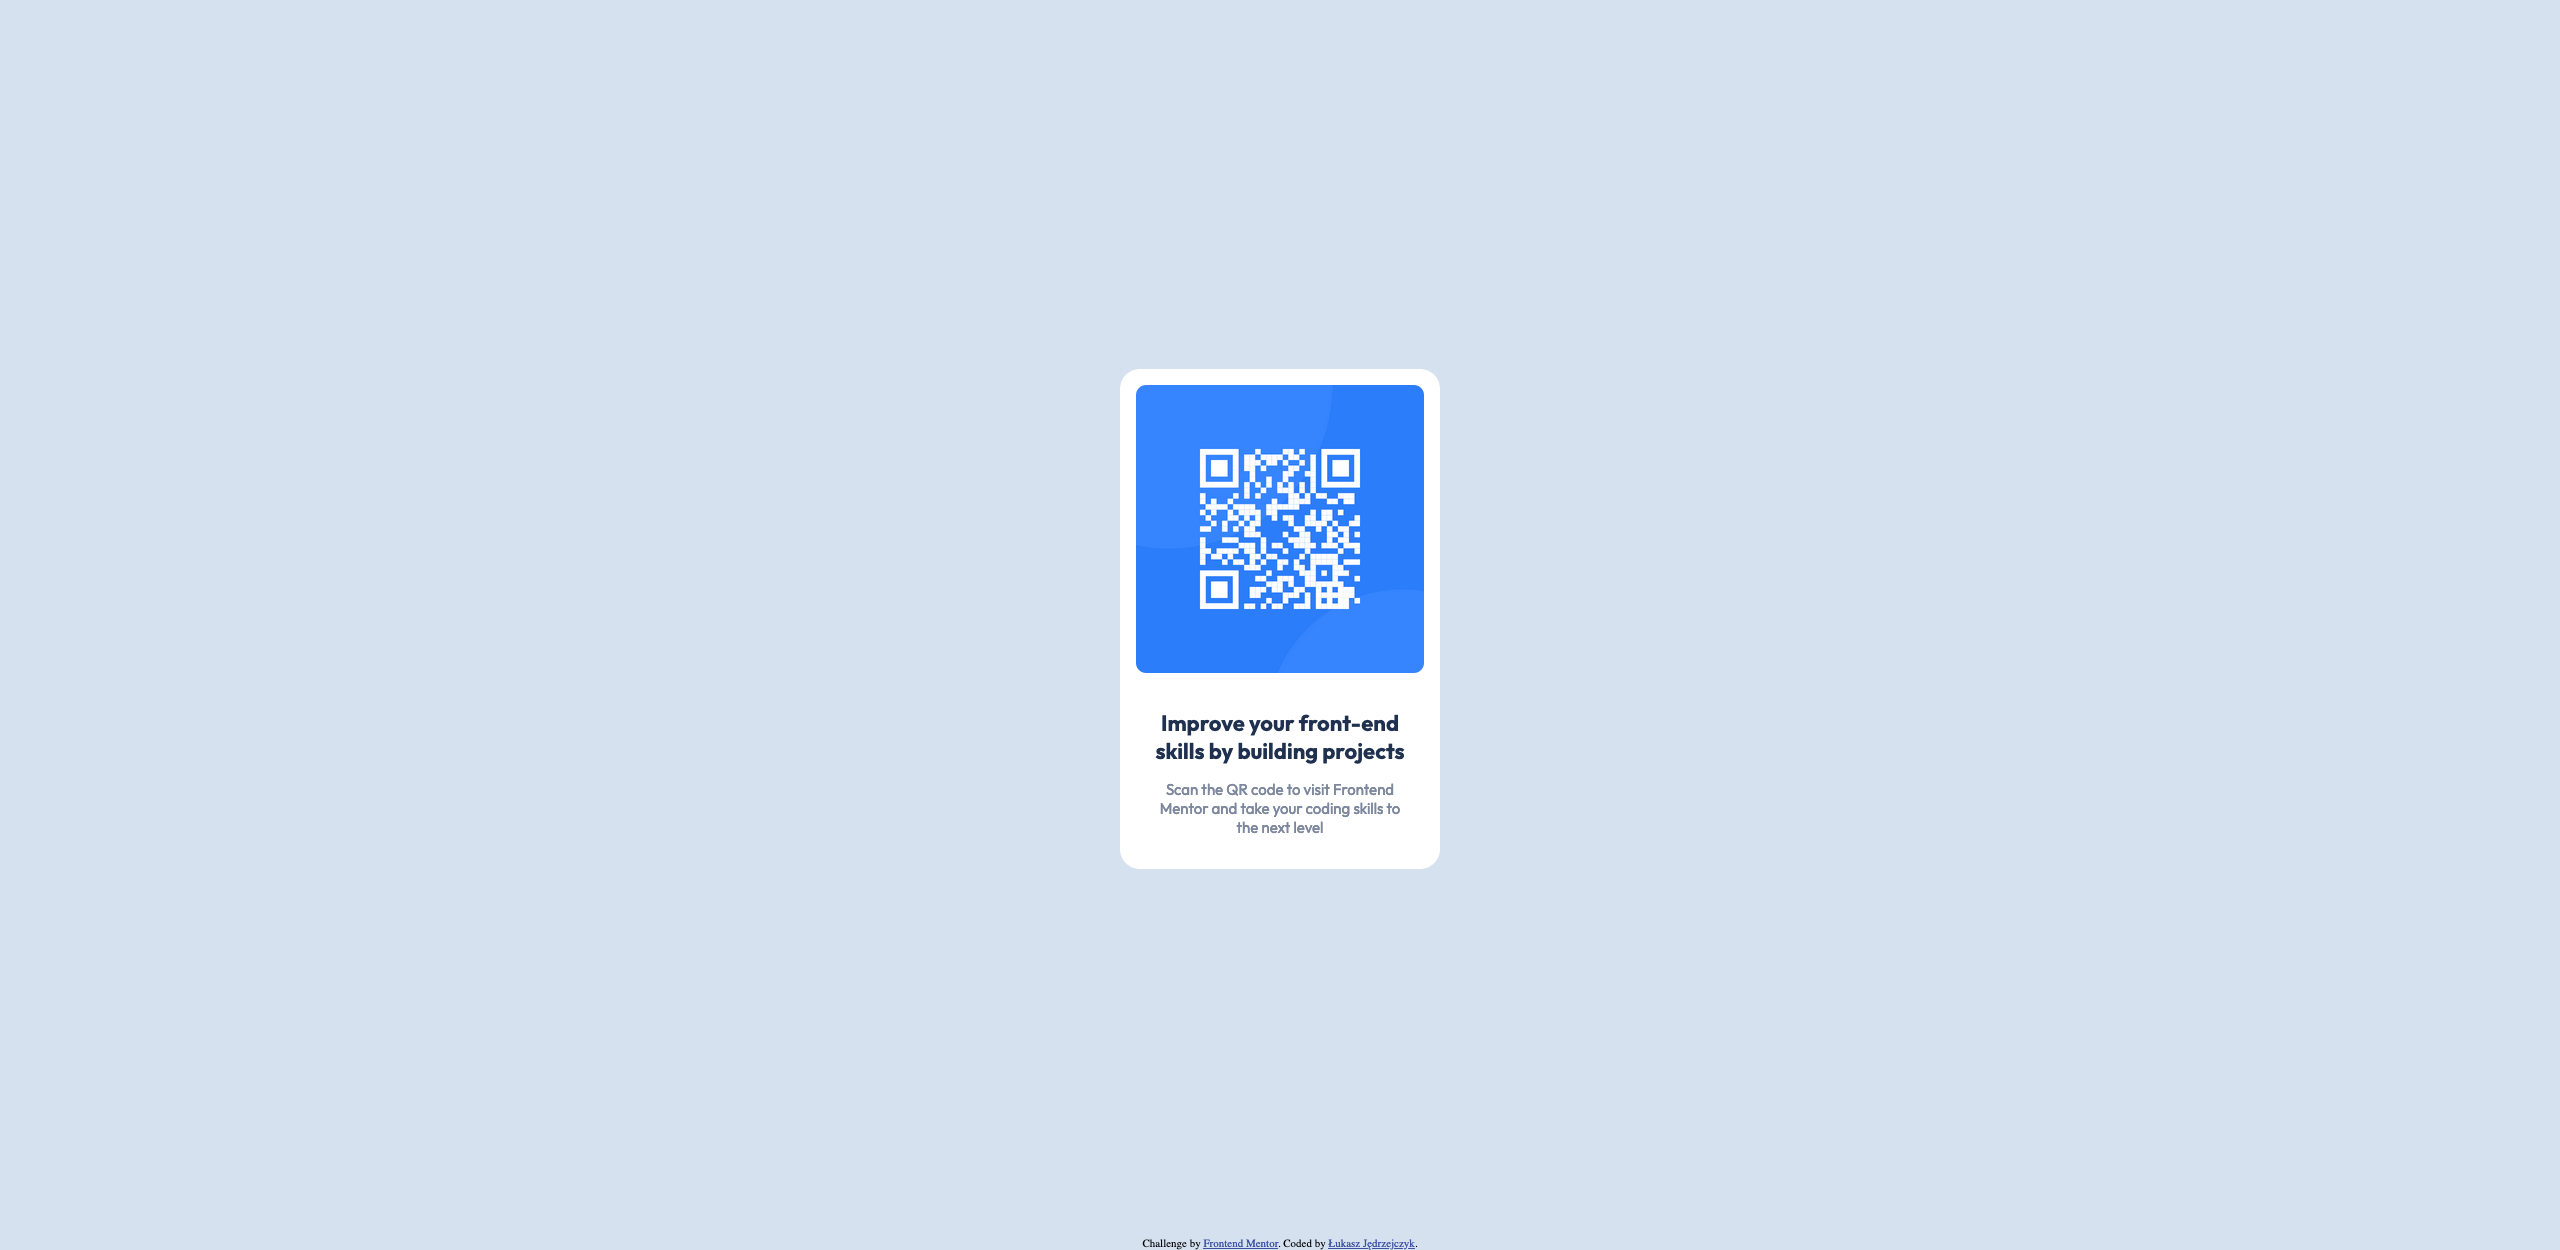
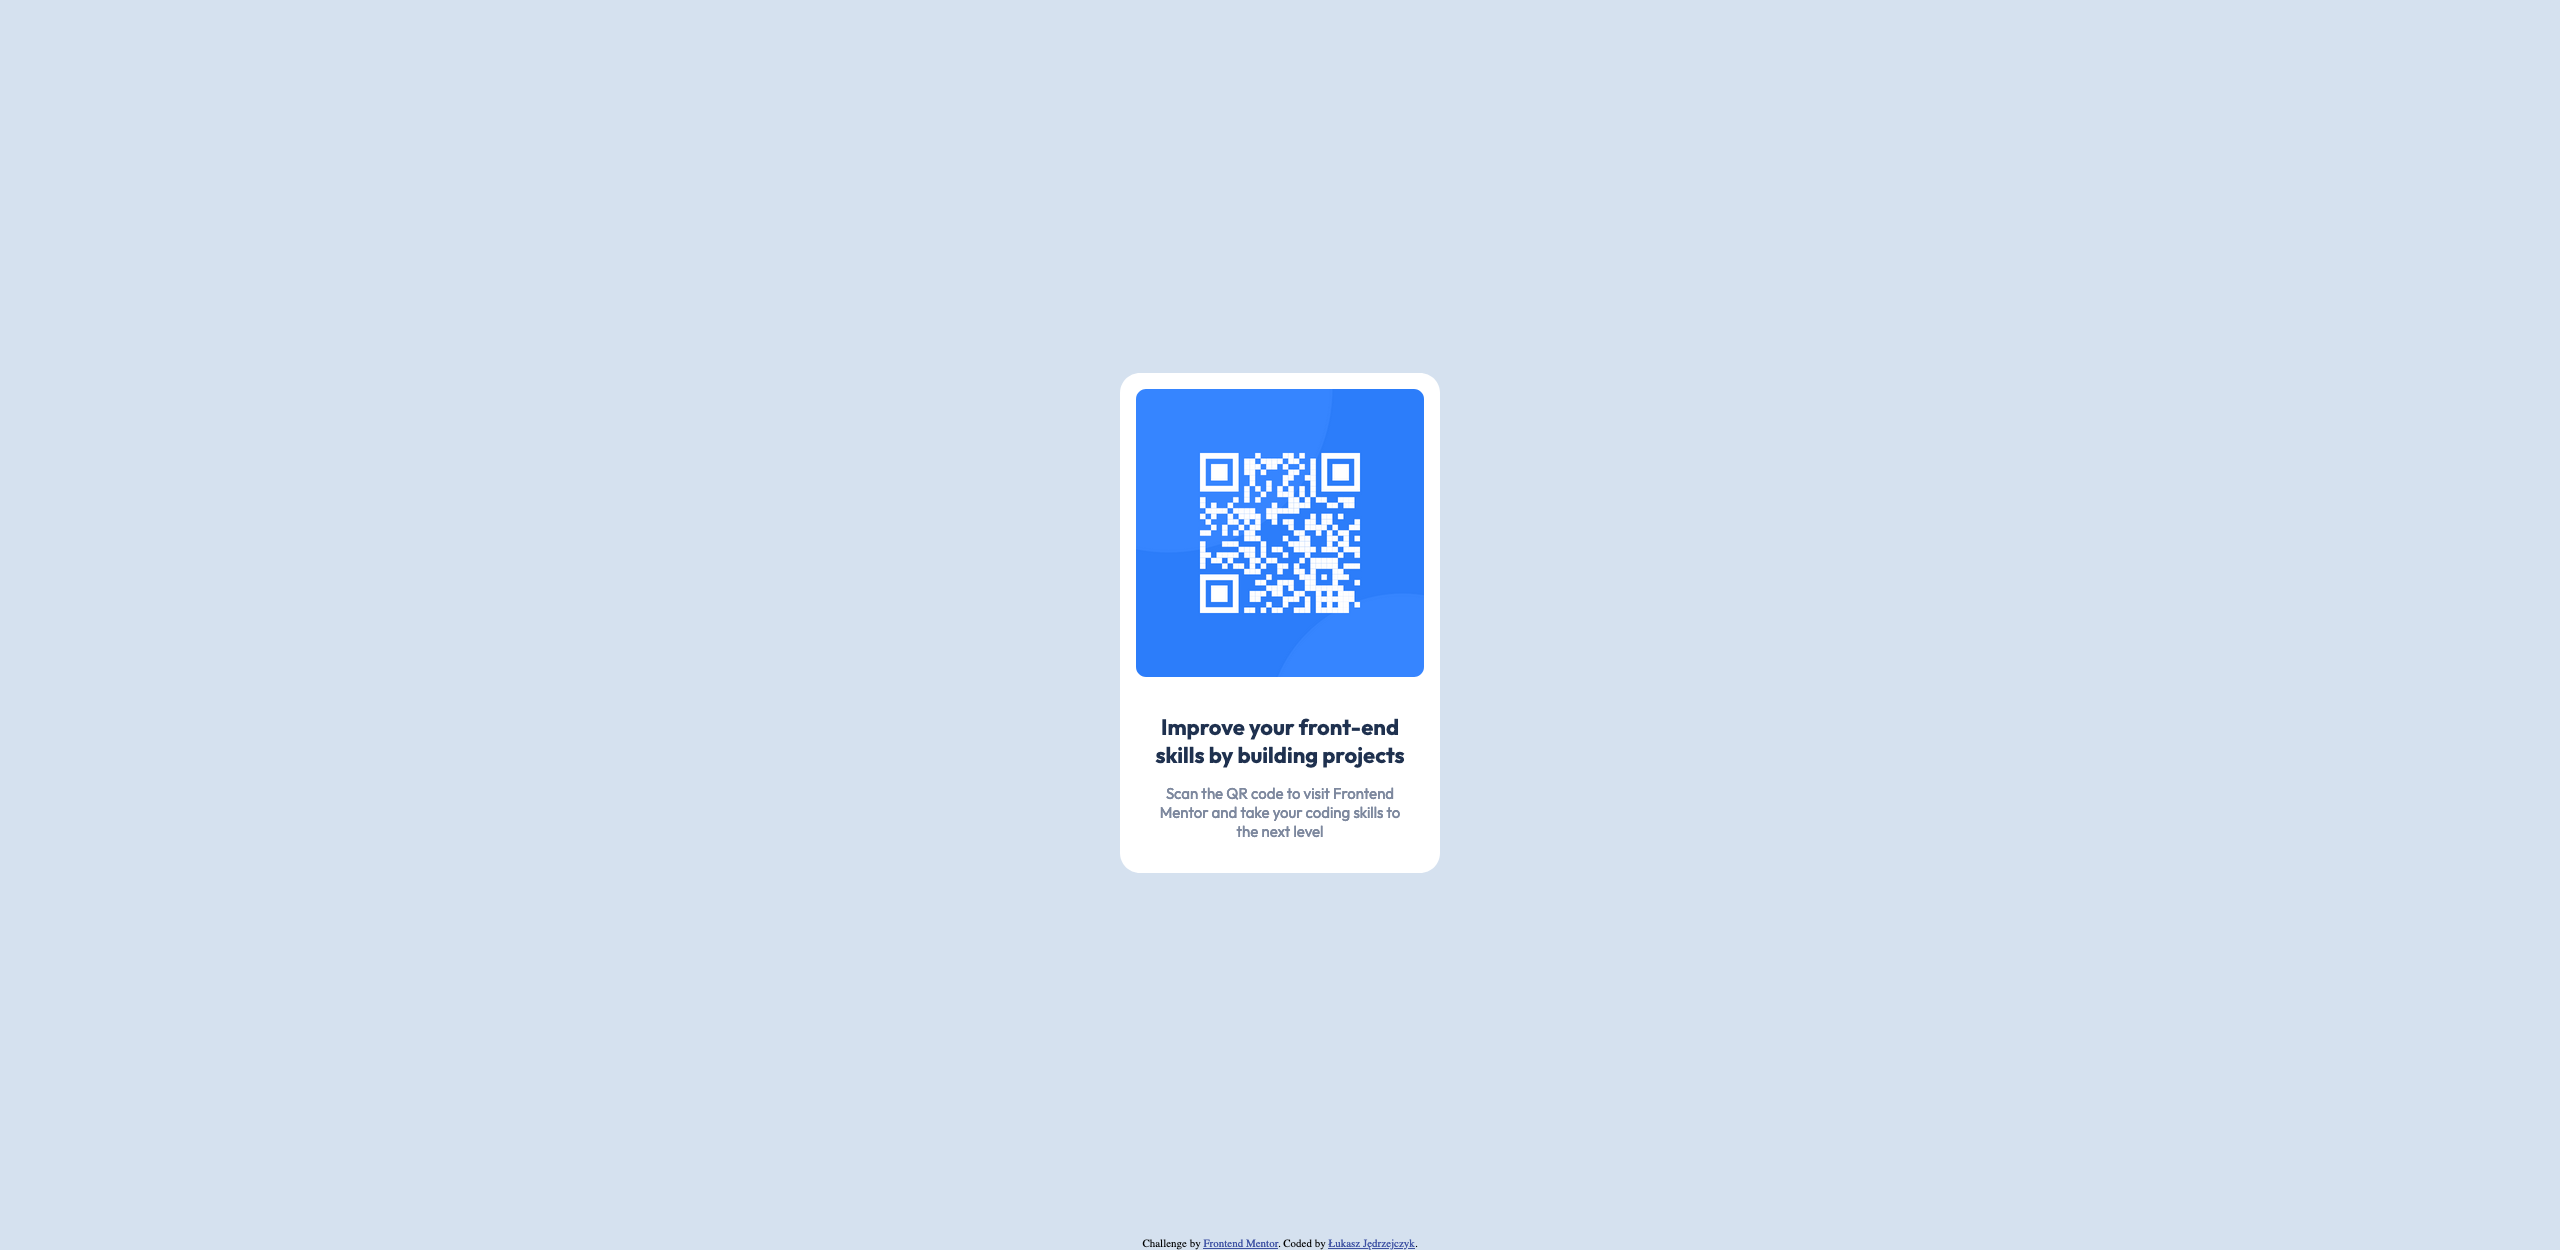
Centers the qr code by applying non-uniform padding. Changes divs into main and footer.

Changed region(s): [[0.4375, 0.5304, 0.5625, 0.7176], [0.4688, 0.3432, 0.5312, 0.4992], [0.4375, 0.2808, 0.5625, 0.312]]

diff --git a/index.html b/index.html
@@ -9,7 +9,7 @@
     <title>Frontend Mentor | QR code component</title>
   </head>
   <body>
-    <div class="card-container">
+    <main class="card-container">
       <div class="card">
         <img class="code" src="images/image-qr-code.png" alt="QR code that leads to Frontend Mentor page" />
         <div class="text">
@@ -17,11 +17,11 @@
           <p>Scan the QR code to visit Frontend Mentor and take your coding skills to the next level</p>
         </div>
       </div>
-    </div>
-    <div class="attribution">
+    </main>
+    <footer class="attribution">
       Challenge by
       <a href="https://www.frontendmentor.io?ref=challenge" target="_blank"> Frontend Mentor</a>. Coded by
       <a href="https://github.com/LUKASZ-JK/">Łukasz Jędrzejczyk</a>.
-    </div>
+    </footer>
   </body>
 </html>

diff --git a/css/sass.scss b/css/sass.scss
@@ -42,7 +42,7 @@ p {
 .card-container {
   flex: 1;
   display: flex;
-  padding: 2rem;
+  padding: 2.5rem 0 2rem 0;
 }
 
 .card {

diff --git a/css/site.css b/css/site.css
@@ -35,7 +35,7 @@ p {
 .card-container {
   flex: 1;
   display: flex;
-  padding: 2rem;
+  padding: 2.5rem 0 2rem 0;
 }
 
 .card {
